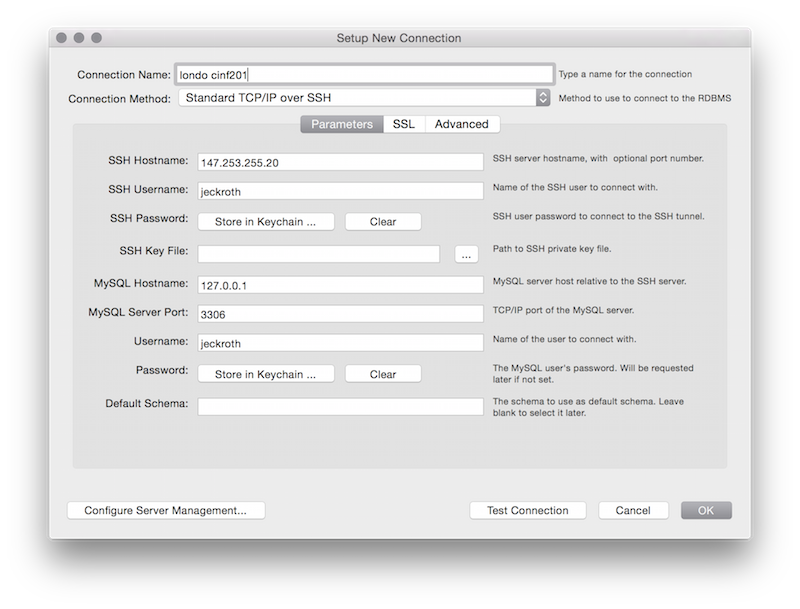
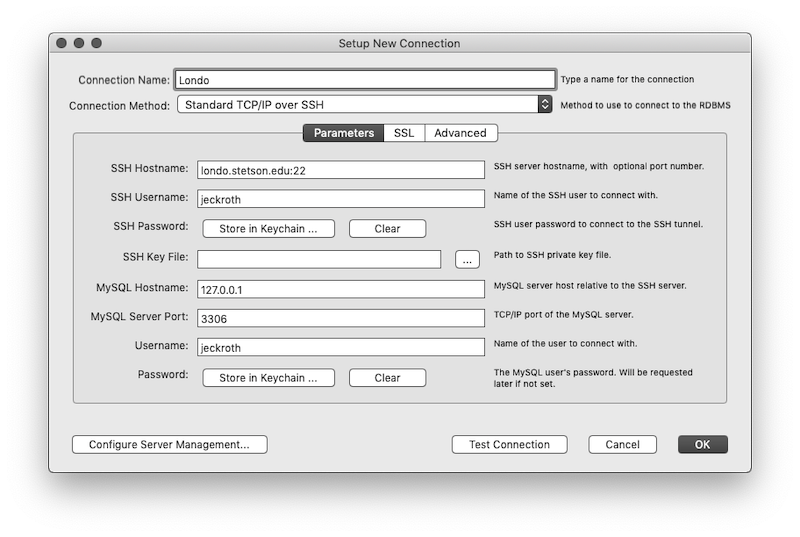
Added A02 and updated MySQL GUI notes

Changed region(s): [[0.0625, 0.0298, 0.9375, 0.7747], [0.0625, 0.8045, 0.9375, 0.9236]]

diff --git a/notes/mysql-guis.md b/notes/mysql-guis.md
@@ -20,7 +20,7 @@ Type in the connection details exactly as shown, except change the username 'jec
 
 ![MySQL Workbench](/images/mysql-workbench-2.png)
 
-After clicking OK, you'll have a connection (like a bookmark) that can be used whenever you open the Workbench. Double click the connection to connect.
+After clicking OK, you'll have a connection (like a bookmark) that can be used whenever you open the Workbench. Double click the connection to connect. You'll need to provide your londo password followed by your database password (which you can find in your .my.cnf file on londo).
 
 ![MySQL Workbench](/images/mysql-workbench-3.png)
 
@@ -28,24 +28,7 @@ Assuming the connection was set up properly, you will now see several panes. On 
 
 ![MySQL Workbench](/images/mysql-workbench-4.png)
 
-Expand a database in the lower-left pane and select a table. Right-click and choose to select the first 1000 rows. The middle pane will update to show the SQL query generated and executed, plus the results in a spreadsheet form.
+Double-click a database to activate it in the left pane. Type a SQL query in the middle pane, and then click the lightning-bolt icon to execute it. The results will appear in the bottom pane.
 
 ![MySQL Workbench](/images/mysql-workbench-5.png)
-
-
-## phpMyAdmin
-
-A second option is phpMyAdmin, which works in your browser. Thus, you do not need to install any software.
-
-Connect to phpMyAdmin using this address: [https://londo.stetson.edu/phpmyadmin/](https://londo.stetson.edu/phpmyadmin/). Log in with your MySQL credentials (not londo credentials).
-
-![phpMyAdmin Login](/images/phpmyadmin-login.png)
-
-Next, select your database and table from the tree on the left sidebar:
-
-![phpMyAdmin Select Database](/images/phpmyadmin-selectdb.png)
-
-After selecting a table, you can execute SQL queries using the SQL menu link, then typing some SQL code and clicking Go. Modify your query with the "Edit inline" link below the input box.
-
-![phpMyAdmin Query](/images/phpmyadmin-query.png)
 
